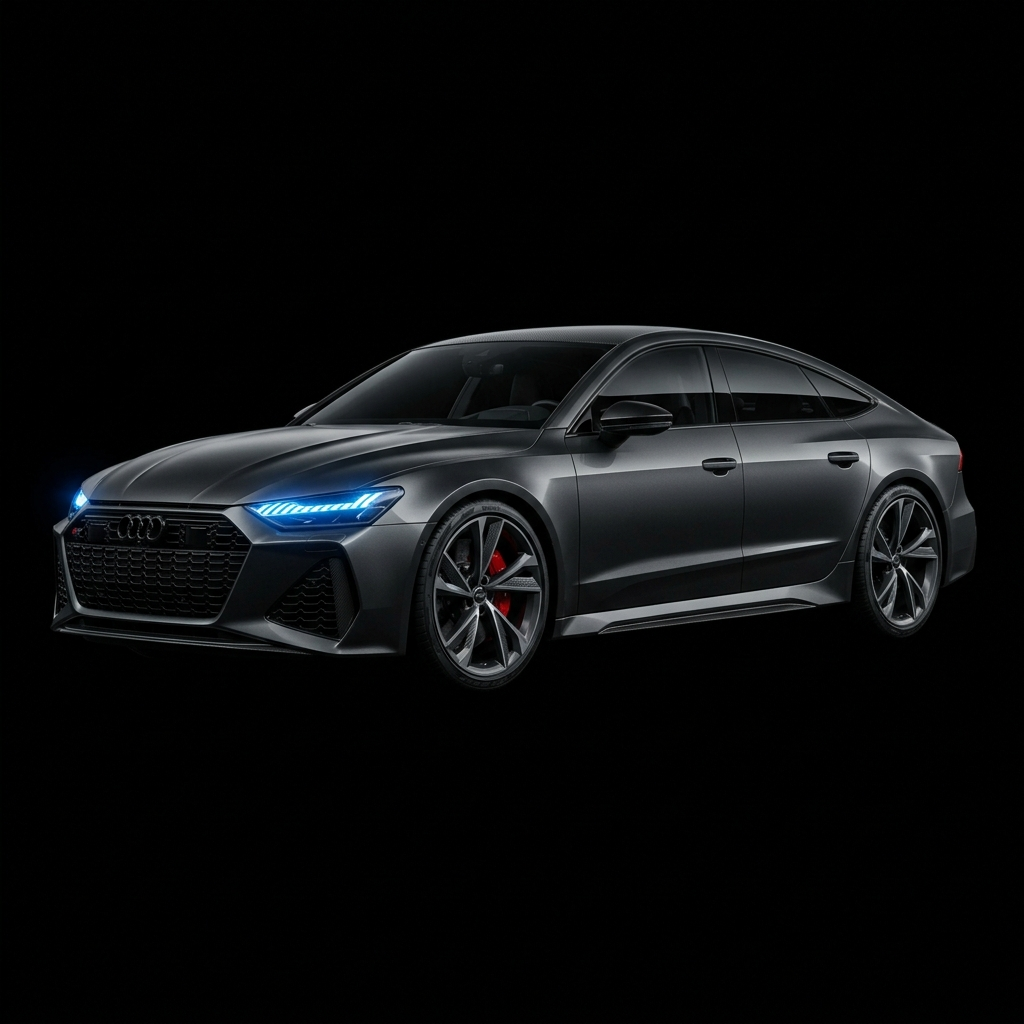
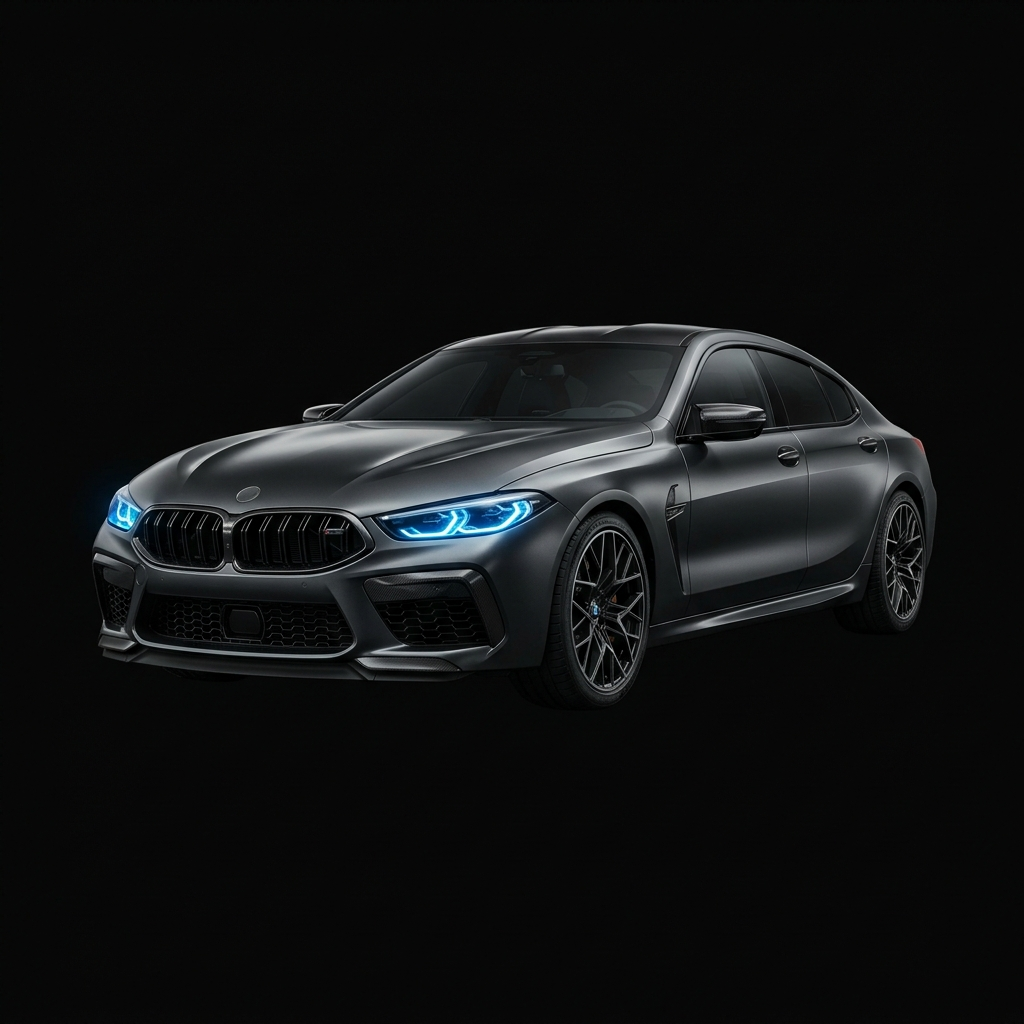
Fix: hero car image matches site bg, remove mix-blend-mode, eliminate black overlay

Changed region(s): [[0.0312, 0.3125, 0.9688, 0.6875]]

diff --git a/src/components/Hero.tsx b/src/components/Hero.tsx
@@ -202,8 +202,7 @@ export default function Hero() {
               width: "100%",
               height: "auto",
               objectFit: "contain",
-              mixBlendMode: "screen",
-              filter: "drop-shadow(0 20px 60px rgba(0, 102, 255, 0.4))",
+              filter: "drop-shadow(0 20px 60px rgba(0, 102, 255, 0.5))",
             }}
             priority
           />
@@ -472,8 +471,7 @@ export default function Hero() {
               width: "100%",
               height: "auto",
               objectFit: "contain",
-              mixBlendMode: "screen",
-              filter: "drop-shadow(0 16px 40px rgba(0, 102, 255, 0.3))",
+              filter: "drop-shadow(0 16px 40px rgba(0, 102, 255, 0.35))",
             }}
           />
         </div>